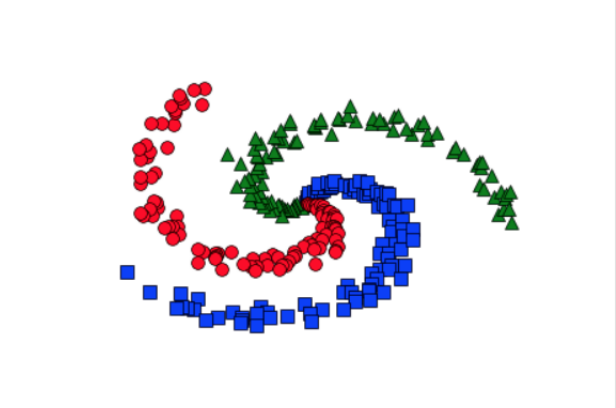
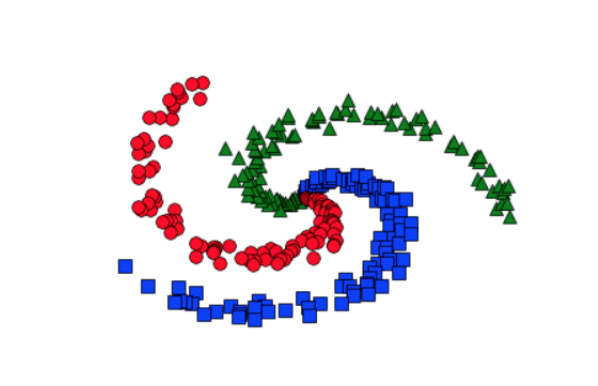
update README: describe 4 problems

Changed region(s): [[0.1806, 0.1865, 0.8729, 0.8705], [0.9933, 0.0, 1.0, 1.0]]

diff --git a/README.md b/README.md
@@ -12,7 +12,7 @@ Apply Multilayer Perceptron to solve an classification problem.
 
 Specifically, with the input being a point determined by its coordinates x, y, predict which class it belongs to.
 
-<img width="308" alt="illustration" src="https://github.com/duongngockhanh/multilayer-perceptron/assets/87640587/b46e7c09-16cb-4c26-960a-f72547598804">
+<img width="299" alt="illustration" src="https://github.com/duongngockhanh/multilayer-perceptron/assets/87640587/a211a461-5560-422a-8eba-91a6e8f1bf89">
 
 ## 3. FER Classification 
 Apply Multilayer Perceptron to solve the Emotion Classification problem based on the FER 2013 dataset.
